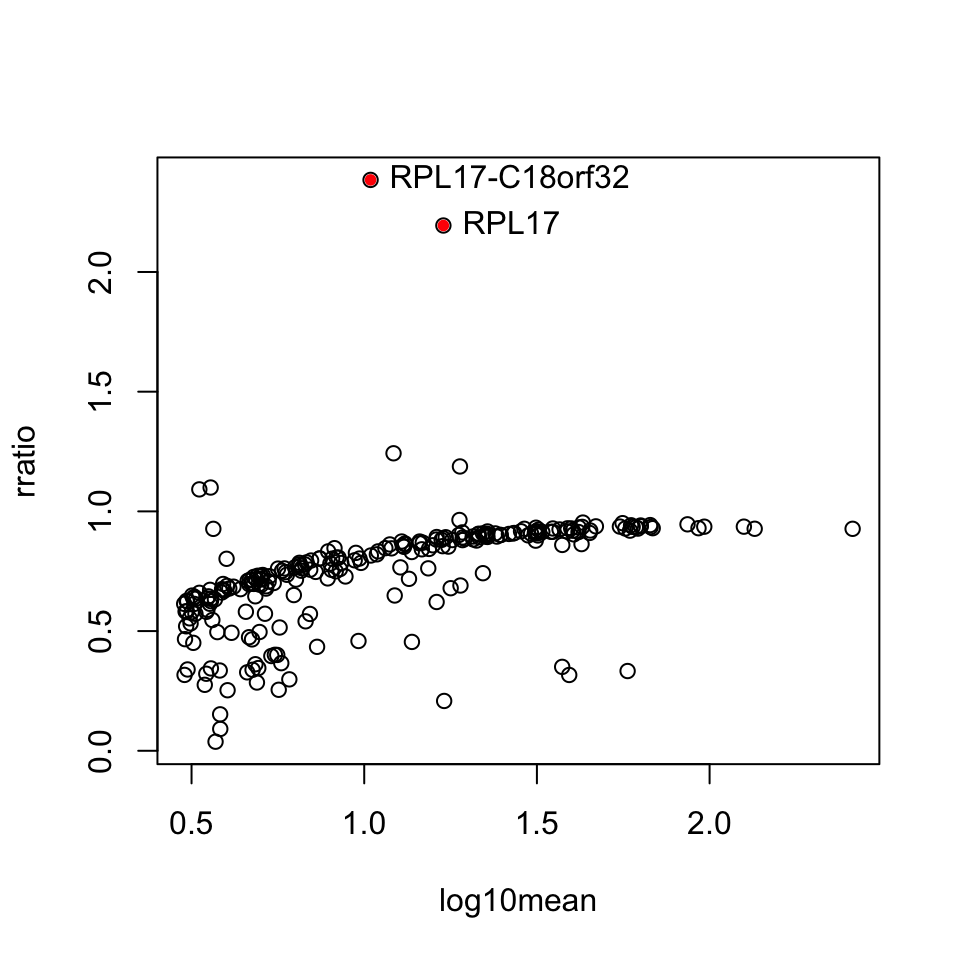
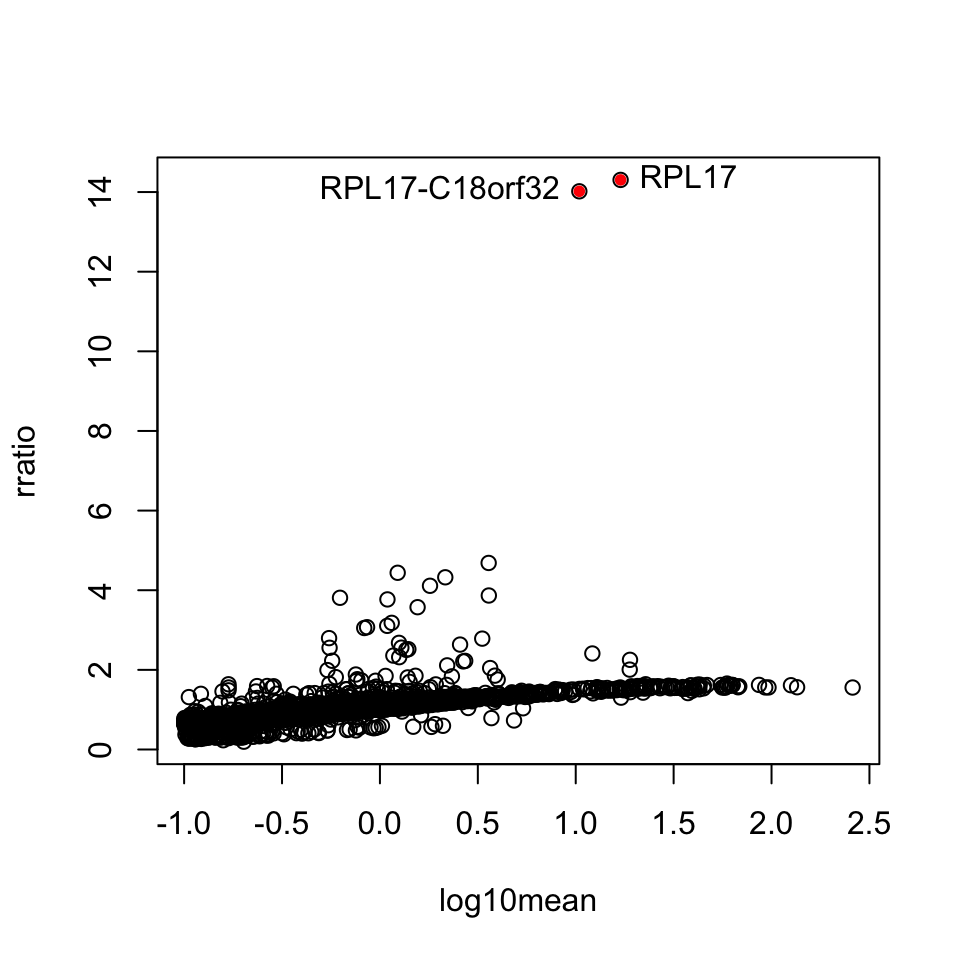
finishing up text

diff --git a/vignettes/alevin2bioc.knit.md b/vignettes/alevin2bioc.knit.md
@@ -12,12 +12,15 @@ vignette: >
   %\VignetteEncoding[utf8]{inputenc}
 ---
 
-# Tutorial for importing alevin scRNA-seq quantifications into R/Bioconductor
+# Importing alevin scRNA-seq counts into R/Bioconductor
 
 ## Instructor(s) name(s) and contact information
 
 [Michael Love](https://mikelove.github.io),
 [Avi Srivastava](https://k3yavi.github.io)
+
+
+
 
 ## Introduction
 
@@ -39,13 +42,24 @@ human reference transcripts [@gencode].
 
 ## Importing alevin data with tximeta
 
-We will use *tximeta* ... [@tximeta].
+We will use *tximeta* to import the *alevin* counts into
+R/Bioconductor. The main function `tximeta` reads information from the
+entire output directory of *alevin* or *Salmon* in order to
+automatically detect and download metadata about the reference
+sequences (the transcripts) [@tximeta]. It should work "out of the
+box" for human, mouse, and fruit fly reference transcripts from
+GENCODE, Ensembl, or RefSeq
 
 First we specify the path where the quantification data is stored. In
 this tutorial, the data is stored in an R package, so we need to use
-the `system.file` command. For typical use, you would not use
-`system.file`, but would just specify the path to the directory of the
-output from *alevin*. 
+the `system.file` command. 
+
+**Note:** For typical use, you would not use `system.file`, but would
+just specify the path to the directory of the output from *alevin*.
+
+**Second note:** when sharing *alevin* or *Salmon* datasets, make sure
+to share the entire output directory (you can `zip` or `tar` the
+directories to make them into a single share-able file).
 
 
 ```r
@@ -54,6 +68,10 @@ output from *alevin*.
 extdata <- system.file("extdata", package="alevin2bioc")
 dir <- file.path(extdata, "pbmc_1k")
 ```
+
+We make a vector called `files` (for *alevin* this will point to just
+a single file, but with *Salmon* usually one would import multiple
+files at a time).
 
 
 ```r
@@ -115,6 +133,14 @@ se <- tximeta(files, type="alevin", alevinArgs=list(filterBarcodes=TRUE))
 ## fetching genome info for GENCODE
 ```
 
+We can see as it was importing that it automatically detected we are
+working with data quantified using GENCODE's *Homo sapiens* reference
+transcripts, release 33. The transcript metadata was added
+programmatically to the output (this object, `se`). `tximeta` is also
+written in such a way that it will avoid unnecessary downloads and
+parsing of files -- it will first attempt to find a cached version of
+the metadata, to avoid re-downloading or re-parsing these files.
+
 `tximeta` returns a *SummarizedExperiment* [@Lawrence2013]. We can
 easily convert this object into a *SingleCellExperiment*
 [@Amezquita2020] which has specific slots designed for single-cell
@@ -126,6 +152,14 @@ suppressPackageStartupMessages(library(SingleCellExperiment))
 sce <- as(se, "SingleCellExperiment")
 ```
 
+The *SingleCellExperiment* object is used widely across Bioconductor
+packages (as you may already know), and so the code up to this point
+can be used as an entry point into other Bioconductor single cell
+workflows. For more details on working with *SingleCellExperiment*
+objects, one can consult the following online book: 
+[Orchestrating Single-Cell Analysis with Bioconductor](https://osca.bioconductor.org/)
+[@Amezquita2020].
+
 ## Benefits of tximeta
 
 We can automatically add IDs, because *tximeta* knows the type of
@@ -134,6 +168,13 @@ identifiers on the rows of the `sce` object:
 
 ```r
 library(org.Hs.eg.db)
+```
+
+```
+## 
+```
+
+```r
 sce <- addIds(sce, "SYMBOL")
 ```
 
@@ -199,14 +240,18 @@ sce[sce %over% x,]
 
 ## Add cell annotations
 
-Cell annotations were generated using *Seurat* [@seurat]. The script is
-saved in this package in `inst/scripts/seurat.R`.
+Cell annotations were already generated using *Seurat* [@seurat]. The
+script is saved in this package in `inst/scripts/seurat.R`. Here we
+will use them for size factor estimation and for visualization.
 
 
 ```r
 ids <- readRDS(file.path(extdata, "idents.rds"))
 top10 <- read.csv(file.path(extdata, "top10.csv"))
 ```
+
+We subset to the cells that we have IDs for, and attach the labels in
+the correct order:
 
 
 ```r
@@ -224,6 +269,8 @@ table(idx)
 sce <- sce[,idx]
 sce$cluster <- ids[colnames(sce)]
 ```
+
+The number of cells per cluster:
 
 
 ```r
@@ -289,6 +336,9 @@ fewer.umi <- cs < 5000
 ##     TRUE      9              13 21    20 28
 ```
 
+We have a data.frame with the top marker genes per cluster, as
+identified with *Seurat*.
+
 
 ```r
 head(top10)
@@ -313,6 +363,18 @@ head(top10)
 
 ## Plotting counts with uncertainty
 
+In this section, we will begin to plot the counts for cells, for
+specific genes, and showing the "inferential uncertainty" as
+quantified by *alevin*. This is a unique aspect to the *alevin*
+quantification method, that it retains gene multi-mapping reads
+(instead of discarding them), and also can attach a degree of
+uncertainty to each count in the matrix. *alevin* computes the mean
+and variance of inferential replicates, and `tximeta` will also import
+these matrices by default (they are also sparse, similar to the counts
+matrix). We will first visualize the uncertainty, and later give an
+example of a set of genes where the uncertainty gives us useful
+information. 
+
 For a later demonstration of scaling, we will sort the cells by the
 total count (this is not something you would necessarily do in a
 typical analysis).
@@ -322,6 +384,10 @@ typical analysis).
 o <- order(colSums(assays(sce)[["counts"]]), decreasing=TRUE)
 sce <- sce[,o]
 ```
+
+We can now use a simple function from the *fishpond* package in order
+to plot the inferential mean and variance for the cells, for various
+genes.
 
 
 ```r
@@ -333,9 +399,12 @@ plotInfReps(sce, idx="ENSG00000167286.9",
 
 <img src="alevin2bioc_files/figure-html/plot-basic-1.png" width="480" />
 
+Here we show the same plot but now subsetting the number of cells: 
+
 
 ```r
-plotInfReps(sce[,sample(ncol(sce),200)],
+idx <- sample(ncol(sce),200)
+plotInfReps(sce[,idx],
             idx="ENSG00000167286.9",
             x="cluster", mainCol="SYMBOL",
             legend=TRUE)
@@ -343,15 +412,24 @@ plotInfReps(sce[,sample(ncol(sce),200)],
 
 <img src="alevin2bioc_files/figure-html/plot-medium-1.png" width="480" />
 
+This time only 100 cells:
+
 
 ```r
-plotInfReps(sce[,sample(ncol(sce),100)],
+idx <- sample(ncol(sce),100)
+plotInfReps(sce[,idx],
             idx="ENSG00000167286.9",
             x="cluster", mainCol="SYMBOL",
             legend=TRUE)
 ```
 
 <img src="alevin2bioc_files/figure-html/plot-small-1.png" width="480" />
+
+The plots change their features across different sample sizes for ease
+of viewing the uncertainty of quantification for individual cells.
+
+We can also choose to plot the cells in their original order (the
+default for scRNA-seq is to sort by the mean value):
 
 
 ```r
@@ -365,7 +443,8 @@ plotInfReps(sce, idx="ENSG00000167286.9",
 ## Scaling with size factors
 
 We use `computeSumFactors` [@Lun2016] from the *scran* package
-[@scran] ...
+[@scran] to compute size factors that are stored in
+`sizeFactors(sce)`. 
 
 
 ```r
@@ -375,6 +454,10 @@ plot(cs, sizeFactors(sce), xlab="column sum", ylab="sum factor")
 ```
 
 <img src="alevin2bioc_files/figure-html/size-factors-1.png" width="480" />
+
+Now we demonstrate un-scaled counts and counts scaling with size 
+factors just computed. (Note in the second plot that the first cell in
+each group isn't the highest anymore.)
 
 
 ```r
@@ -391,8 +474,23 @@ plotInfReps(sce, idx="ENSG00000167286.9",
 
 ## Inferential variance (uncertainty)
 
-Inferential variance is a focus of the *Swish* nonparametric
-statistical method [@swish] which we do not demonstrate here ...
+In this second to last section, we will briefly talk about how the
+inferential uncertainty as stored in the variance assay may be useful
+in practice.
+
+Many users may prefer to just work with the counts matrix, and not
+consider the inferential mean and variance. We have found that,
+globally, this may not lead to too much of a problem, but for certain
+genes, it may be important to use the inferential variance in cases
+where it may signal difficult to quantify genes. Inferential
+uncertainty for bulk and single cell RNA-seq differential expression
+was a focus of the *Swish* nonparametric statistical method [@swish]
+which we do not demonstrate here, but one can refer to
+the vignette of [swish](https://bioconductor.org/packages/swish) for
+more details (in particular the section on *alevin* data).
+
+Let's start by visualizing the uncertainty across all values in the
+matrix: 
 
 
 ```r
@@ -413,66 +511,108 @@ ggplot(df, aes(log10mean, log10var)) +
 
 <img src="alevin2bioc_files/figure-html/var-mean-1.png" width="480" />
 
+The values around the red line indicate not much uncertainty
+(bootstrapping reads gives us roughly multinomial, and so also
+approximately Poisson, variability around the mean count). However we
+can see a tail of higher uncertainty values in the matrix, where the
+inferential variance is for example, up to 10 times higher than the
+mean. 
+
+We can also plot this summarized to a single value per gene, here we
+calculate the 99% quantile of the ratio of variance over mean, per
+gene, and plot this over the mean:
+
 
 ```r
-rratio <- rowMeans(assays(sce)[["variance"]] /
-                   (assays(sce)[["mean"]] + 1))
+library(matrixStats)
+rratio <- rowQuantiles(as.matrix(
+  assays(sce)[["variance"]] /
+  (assays(sce)[["mean"]] + 1)), probs=.99)
 rmu <- rowMeans(assays(sce)[["mean"]])
-idx <- rmu > 3
+idx <- rmu > .1
 df <- data.frame(log10mean=log10(rmu[idx]),
                  rratio=rratio[idx],
                  gene=mcols(sce)$SYMBOL[idx])
 ```
 
+A number of genes have a ratio above 2, but then two genes in this
+dataset stand out above the rest, and they happen to be a ribosomal
+gene, and another gene that is a read-through of the same locus:
+
 
 ```r
 with(df, plot(log10mean, rratio))
-high.uncert <- c(187,188)
+high.uncert <- which(df$rratio > 10)
 with(df[high.uncert,],
      points(log10mean, rratio, pch=20, col="red"))
 with(df[high.uncert,],
-     text(log10mean, rratio, gene, pos=4))
+     text(log10mean, rratio, gene, pos=c(2,4)))
 ```
 
 <img src="alevin2bioc_files/figure-html/high-var-mean-ratio-1.png" width="480" />
 
 ```r
-mcols(sce)$SYMBOL[idx][c(668,669)]
+mcols(sce)$SYMBOL[idx][high.uncert]
 ```
 
 ```
-## <NA> <NA> 
-##   NA   NA
+##  ENSG00000215472  ENSG00000265681 
+## "RPL17-C18orf32"          "RPL17"
 ```
 
-Read-through of nearby gene `ENSG00000265681.7` (RPL17):
+Some of the counts for the ribosomal gene and its read-through:
 
 
 ```r
+par(mfrow=c(2,1), mar=c(2.5,4.5,1,1))
+plotInfReps(sce[,1:100], idx="ENSG00000265681.7",
+            x="cluster", mainCol="SYMBOL")
 plotInfReps(sce[,1:100], idx="ENSG00000215472.10",
             x="cluster", mainCol="SYMBOL")
 ```
 
-<img src="alevin2bioc_files/figure-html/plot-high-uncert-rd-1.png" width="480" />
+<img src="alevin2bioc_files/figure-html/plot-high-uncert-1.png" width="480" />
 
-
-```r
-plotInfReps(sce[,1:100], idx="ENSG00000265681.7",
-            x="cluster", mainCol="SYMBOL")
-```
-
-<img src="alevin2bioc_files/figure-html/plot-high-uncert-gene-1.png" width="480" />
+The extra uncertainty on the counts for this gene indicate that
+*alevin* was not certain if the reads should come from the gene or its
+read-through. While in this case, the ribosomal gene may not be over
+interest, there are other cases (e.g. developmental or immune genes
+with high sequence homology) where information of the uncertainty of
+quantification can be useful in interpreting the data.
 
 ## Downstream analysis with Seurat
 
-We now load *Seurat* [@seurat] ...
+As we previously showed how to construct a *SingleCellExperiment*
+which can be used with other Bioconductor workflows, we also
+demonstrate how it is easy to convert the `sce` object into an object
+for use with the *Seurat* R package [@seurat] for single cell
+analysis. As we noted, *Seurat* was already used to identify the cell
+types (with the script stored in `inst/scripts/seurat.R`).
+
+We now load *Seurat* and create a *Seurat* object:
 
 
 ```r
 library(Seurat)
+```
+
+```
+## 
+## Attaching package: 'Seurat'
+```
+
+```
+## The following object is masked from 'package:SummarizedExperiment':
+## 
+##     Assays
+```
+
+```r
 cts <- assays(sce)[["counts"]]
 pbmc <- CreateSeuratObject(cts)
 ```
+
+We can easily create violin plots, for example:
 
 
 ```r
@@ -484,6 +624,9 @@ VlnPlot(pbmc, features=feats, ncol=3)
 
 <img src="alevin2bioc_files/figure-html/seurat-violin-1.png" width="480" />
 
-## Links for further reading
+From this point, one can use the `pbmc` object for use in *Seurat*
+workflows, for example,
+the [vignettes](https://satijalab.org/seurat/vignettes.html) on the
+*Seurat* website. 
 
 ## References
